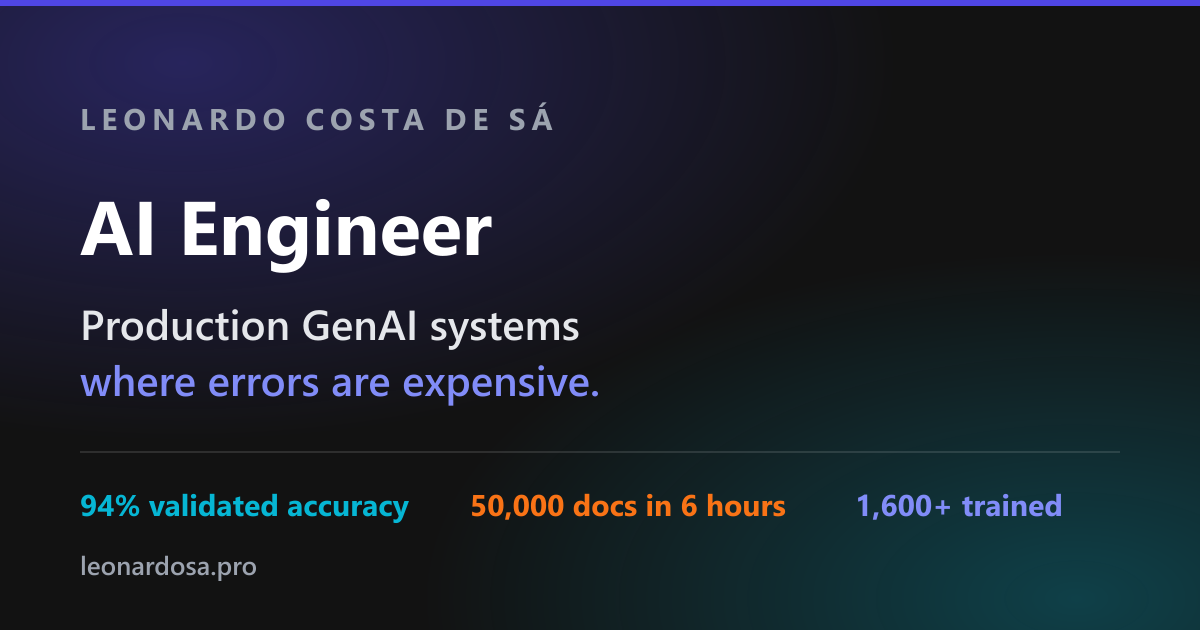
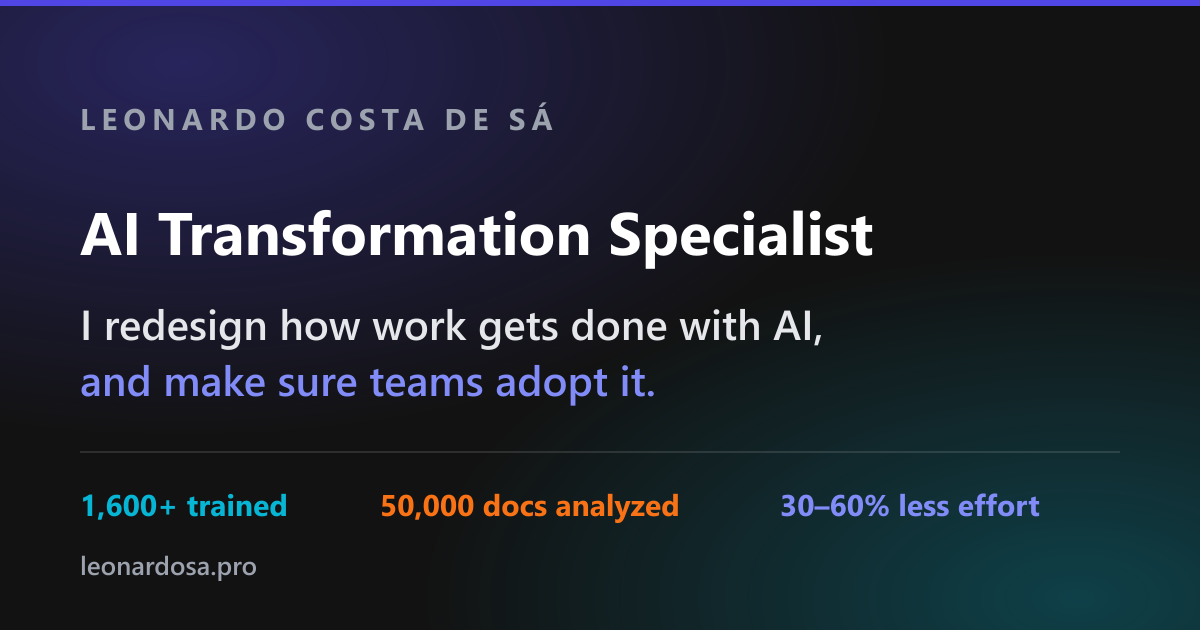
copy: rewrite llms.txt, OG image and README for the new positioning

Changed region(s): [[0.0617, 0.4825, 0.6783, 0.6333], [0.0617, 0.3016, 0.74, 0.4524], [0.0617, 0.7841, 0.8942, 0.8444]]

diff --git a/README.md b/README.md
@@ -1,6 +1,6 @@
 # leonardosa.pro
 
-Personal portfolio of **Leonardo Costa de Sá** — AI Engineer building production GenAI systems for regulated and document-heavy environments.
+Personal portfolio of **Leonardo Costa de Sá** — AI Transformation Specialist: process redesign and AI adoption, with hands-on implementation.
 
 **Live site:** [leonardosa.pro](https://leonardosa.pro)
 
